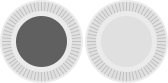
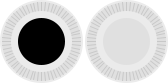
pliz work

Changed region(s): [[0.0893, 0.1928, 0.4167, 0.8193]]

diff --git a/style.css b/style.css
@@ -1,6 +1,6 @@
 .xbox .stick {
     position: absolute;
-    background: url(https://raw.githubusercontent.com/adam10603/ControllerOverlay/master/sticks.svg);
+    background: url(https://raw.githubusercontent.com/adam10603/ControllerOverlay/master/sticks.png);
     background-position: -85px 0;
     height: 83px;
     width: 83px;
